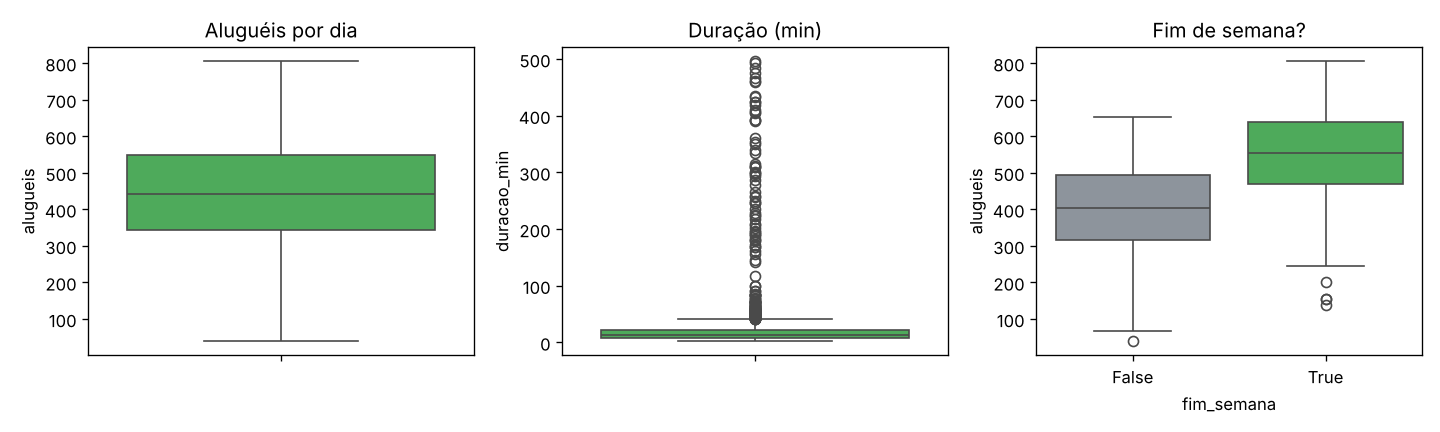
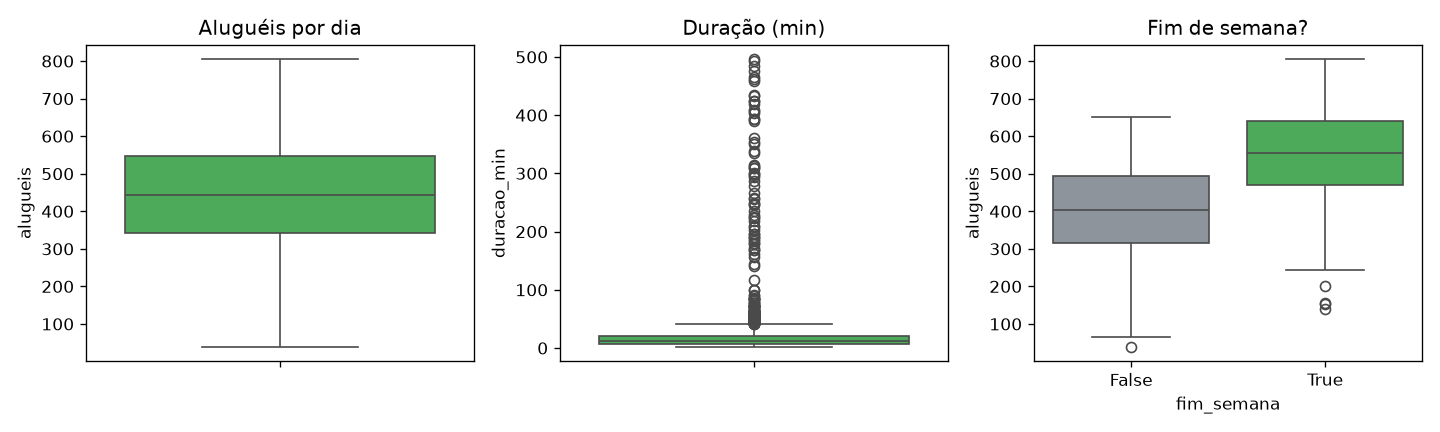
Atualização do kit da semana 12 com exercícios e soluções de estatística aplicada a ML

diff --git a/semana-12-estatisticas-ML/exercicios/aula2/solucoes/exercicio_08_dados_e_modelo.py b/semana-12-estatisticas-ML/exercicios/aula2/solucoes/exercicio_08_dados_e_modelo.py
@@ -1,0 +1,26 @@
+# Aula 2 - Exercício 8 (Git e Pull Request): arquivo dados_e_modelo.py
+import pandas as pd
+from scipy import stats
+from sklearn.linear_model import LinearRegression
+from sklearn.metrics import mean_absolute_error
+from sklearn.model_selection import learning_curve, train_test_split
+from sklearn.tree import DecisionTreeRegressor
+
+consumo_campus = pd.read_csv("arquivos/consumo_campus.csv")
+consumo_serra = pd.read_csv("arquivos/consumo_campus_serra.csv")
+colunas_de_entrada = ["temperatura_c", "ocupacao_pct", "dia_util", "evento"]
+
+print("== curva de aprendizado (erro de validação) ==")
+for nome_do_modelo, modelo in {"linear": LinearRegression(), "árvore": DecisionTreeRegressor(max_depth=6, random_state=42)}.items():
+    tamanhos, _, erros_validacao = learning_curve(modelo, consumo_campus[colunas_de_entrada], consumo_campus["consumo_kwh"],
+        train_sizes=[0.1, 0.4, 1.0], cv=5, scoring="neg_mean_absolute_error", shuffle=True, random_state=42)
+    print(nome_do_modelo, dict(zip(tamanhos.tolist(), (-erros_validacao.mean(axis=1)).round(1).tolist())))
+
+print("\n== ocupação nos dois campi ==")
+estatistica_ks, p_valor_ks = stats.ks_2samp(consumo_campus["ocupacao_pct"], consumo_serra["ocupacao_pct"])
+print(f"KS = {estatistica_ks:.2f} | p-valor = {p_valor_ks:.2g}")
+
+entradas_treino, entradas_teste, consumo_treino, consumo_teste = train_test_split(consumo_campus[colunas_de_entrada], consumo_campus["consumo_kwh"], test_size=0.25, random_state=42)
+modelo_linear = LinearRegression().fit(entradas_treino, consumo_treino)
+residuos_serra = consumo_serra["consumo_kwh"] - modelo_linear.predict(consumo_serra[colunas_de_entrada])
+print(f"viés no campus da serra = {residuos_serra.mean():+.1f} kWh | erro absoluto = {residuos_serra.abs().mean():.1f} kWh")

diff --git a/semana-12-estatisticas-ML/exercicios/aula2/solucoes/exercicio_07_contaminacao_linear_contra_huber.py b/semana-12-estatisticas-ML/exercicios/aula2/solucoes/exercicio_07_contaminacao_linear_contra_huber.py
@@ -1,0 +1,24 @@
+# Aula 2 - Exercício 7: quanto contaminar até o modelo linear falhar?
+import numpy as np
+import pandas as pd
+from sklearn.linear_model import HuberRegressor, LinearRegression
+from sklearn.metrics import mean_absolute_error
+from sklearn.model_selection import train_test_split
+from sklearn.pipeline import make_pipeline
+from sklearn.preprocessing import StandardScaler
+
+consumo_campus = pd.read_csv("arquivos/consumo_campus.csv")
+colunas_de_entrada = ["temperatura_c", "ocupacao_pct", "dia_util", "evento"]
+entradas_treino, entradas_teste, consumo_treino, consumo_teste = train_test_split(consumo_campus[colunas_de_entrada], consumo_campus["consumo_kwh"], test_size=0.25, random_state=42)
+gerador_aleatorio = np.random.default_rng(seed=42)
+print("proporção contaminada | erro linear | erro Huber")
+for proporcao in [0.0, 0.01, 0.03, 0.10]:
+    consumo_contaminado = consumo_treino.copy()
+    quantidade = int(proporcao * len(consumo_contaminado))
+    if quantidade:
+        posicoes = gerador_aleatorio.choice(len(consumo_contaminado), size=quantidade, replace=False)
+        consumo_contaminado.iloc[posicoes] *= 5
+    erro_linear = mean_absolute_error(consumo_teste, LinearRegression().fit(entradas_treino, consumo_contaminado).predict(entradas_teste))
+    modelo_huber = make_pipeline(StandardScaler(), HuberRegressor(epsilon=1.35, max_iter=1000)).fit(entradas_treino, consumo_contaminado)
+    erro_huber = mean_absolute_error(consumo_teste, modelo_huber.predict(entradas_teste))
+    print(f"{proporcao:>20.0%} | {erro_linear:11.1f} | {erro_huber:10.1f}")

diff --git a/semana-12-estatisticas-ML/exercicios/aula2/solucoes/exercicio_06_ruido_na_ocupacao.py b/semana-12-estatisticas-ML/exercicios/aula2/solucoes/exercicio_06_ruido_na_ocupacao.py
@@ -1,0 +1,18 @@
+# Aula 2 - Exercício 6: ruído na medição da ocupação
+import numpy as np
+import pandas as pd
+from sklearn.linear_model import LinearRegression
+from sklearn.metrics import mean_absolute_error
+from sklearn.model_selection import train_test_split
+
+consumo_campus = pd.read_csv("arquivos/consumo_campus.csv")
+colunas_de_entrada = ["temperatura_c", "ocupacao_pct", "dia_util", "evento"]
+entradas_treino, entradas_teste, consumo_treino, consumo_teste = train_test_split(consumo_campus[colunas_de_entrada], consumo_campus["consumo_kwh"], test_size=0.25, random_state=42)
+gerador_aleatorio = np.random.default_rng(seed=42)
+for desvio_do_ruido in [0, 10, 20, 40]:
+    treino_ruidoso, teste_ruidoso = entradas_treino.copy(), entradas_teste.copy()
+    treino_ruidoso["ocupacao_pct"] += gerador_aleatorio.normal(0, desvio_do_ruido, len(treino_ruidoso))
+    teste_ruidoso["ocupacao_pct"] += gerador_aleatorio.normal(0, desvio_do_ruido, len(teste_ruidoso))
+    modelo = LinearRegression().fit(treino_ruidoso, consumo_treino)
+    erro = mean_absolute_error(consumo_teste, modelo.predict(teste_ruidoso))
+    print(f"ruído de {desvio_do_ruido:2d} pontos: coeficiente da ocupação = {modelo.coef_[1]:.2f} | erro no teste = {erro:.1f} kWh")

diff --git a/semana-12-estatisticas-ML/exercicios/aula2/solucoes/exercicio_05_curva_de_aprendizado_comparada.py b/semana-12-estatisticas-ML/exercicios/aula2/solucoes/exercicio_05_curva_de_aprendizado_comparada.py
@@ -1,0 +1,16 @@
+# Aula 2 - Exercício 5: qual modelo precisa de mais dados?
+import pandas as pd
+from sklearn.linear_model import LinearRegression
+from sklearn.model_selection import learning_curve
+from sklearn.tree import DecisionTreeRegressor
+
+consumo_campus = pd.read_csv("arquivos/consumo_campus.csv")
+colunas_de_entrada = ["temperatura_c", "ocupacao_pct", "dia_util", "evento"]
+modelos = {"regressão linear": LinearRegression(), "árvore (profundidade 6)": DecisionTreeRegressor(max_depth=6, random_state=42)}
+for nome_do_modelo, modelo in modelos.items():
+    tamanhos, erros_treino, erros_validacao = learning_curve(modelo, consumo_campus[colunas_de_entrada], consumo_campus["consumo_kwh"],
+        train_sizes=[0.05, 0.2, 0.5, 1.0], cv=5, scoring="neg_mean_absolute_error", shuffle=True, random_state=42)
+    tabela = pd.DataFrame({"linhas": tamanhos, "erro_treino": -erros_treino.mean(axis=1), "erro_validacao": -erros_validacao.mean(axis=1)})
+    tabela["lacuna"] = tabela["erro_validacao"] - tabela["erro_treino"]
+    print(f"--- {nome_do_modelo}")
+    print(tabela.round(1).to_string(index=False))

diff --git a/semana-12-estatisticas-ML/README.md b/semana-12-estatisticas-ML/README.md
@@ -1,0 +1,51 @@
+# Kit da Semana 12: Estatística no Contexto de ML
+
+Curso **Machine Learning e Visão Computacional** (Turma T4), SENAI/SC TEC. Todos os dados são **fictícios**, criados para as aulas, sem dados pessoais (LGPD).
+
+## Conteúdo
+
+| Pasta | O que tem |
+|---|---|
+| `arquivos/` | `consumo_campus.csv` (730 dias) e `consumo_campus_serra.csv` (180 dias de um campus em clima mais frio) |
+| `aulas/` | `aulaN.py` (código das aulas) e `aulaN_saida_esperada.txt` (saída real da execução) |
+| `exercicios/` | Para cada aula, `README.md` com os 4 exercícios e `solucoes/` com a solução de referência e a saída esperada |
+| `figuras/` | Gráficos gerados pelos scripts das aulas |
+
+## Como executar
+
+Rode sempre a partir da raiz do kit (a pasta que contém `arquivos/`):
+
+```bash
+pip install pandas numpy scipy scikit-learn matplotlib
+python aulas/aula1.py
+python exercicios/aula1/solucoes/exercicio_01_amostras_de_umidade.py
+```
+
+Versões usadas para gerar as saídas: pandas 3.0, NumPy 2, SciPy 1.18, scikit-learn 1.9. Em outras versões podem aparecer diferenças pequenas nos números.
+
+## Dicionário de dados (`consumo_campus.csv`)
+
+| Coluna | Descrição |
+|---|---|
+| `data` | Dia da medição |
+| `dia_semana` | 0 (segunda-feira) a 6 (domingo) |
+| `temperatura_c` | Temperatura média do dia, em °C |
+| `umidade_pct` | Umidade relativa média, em % |
+| `ocupacao_pct` | Percentual de salas ocupadas |
+| `evento` | 1 se houve evento no campus |
+| `dia_util` | 1 de segunda a sexta |
+| `consumo_kwh` | Energia consumida no dia (alvo), em kWh |
+
+## Entrega com Git e Pull Request
+
+Cada aula termina com um exercício entregue por Pull Request. Fluxo sugerido:
+
+```bash
+git checkout main && git pull
+git checkout -b feature/estatistica-amostras      # o nome da branch está no README da aula
+git add estatistica_amostras.py ANALISE.md
+git commit -m "Adiciona estatística de amostras do consumo do campus"
+git push -u origin feature/estatistica-amostras
+```
+
+Depois, abra o Pull Request no GitHub descrevendo o que foi feito.
